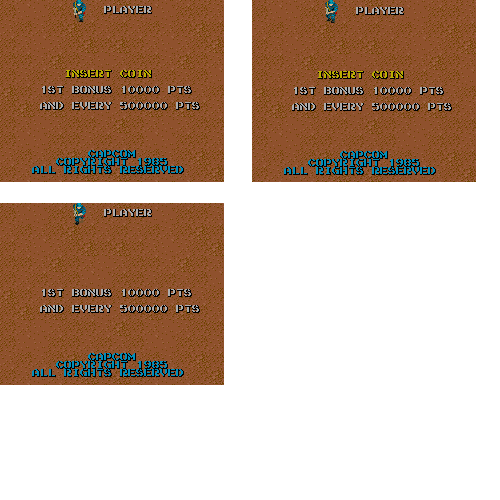
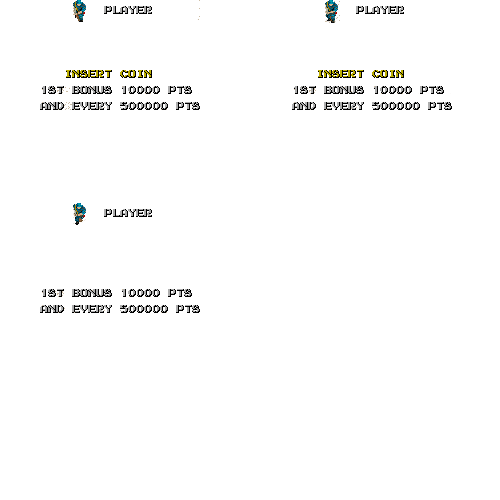
Welcome screen done less the score

diff --git a/ModuleSceneWelcome.cpp b/ModuleSceneWelcome.cpp
@@ -1,3 +1,4 @@
+
 #include "ModuleSceneWelcome.h"
 #include "Application.h"
 #include "ModuleTextures.h"
@@ -42,12 +43,15 @@ bool ModuleSceneWelcome::Start() {
 	background_graphics = App->textures->Load("Images/Mapa4.png");
 	title_graphics = App->textures->Load("Images/title.png");
 	screen_welcome = App->textures->Load("Images/screen1.png");
+	capcom = App->textures->Load("Images/capcom.png");
 
 	if (background_graphics == nullptr)
 		ret = false;
 	if (title_graphics == nullptr)
 		ret = false;
 	if (screen_welcome == nullptr)
+		ret = false;
+	if (capcom == nullptr)
 		ret = false;
 	return ret;
 }
@@ -62,13 +66,15 @@ update_status ModuleSceneWelcome::Update() {
 	bool ret = false;
 	AnimationFrame frame = welcome_anim.GetCurrentFrame();
 	ret = App->render->Blit(background_graphics, 0 + frame.pivot.x, 0 + frame.pivot.y, &frame.rect, 0.0f);
+
 	if (welcome_anim.getFrameIndex() == 0) 
 	{
-		App->render->Blit(screen_welcome, 0, 70, &screen_1.GetCurrentFrame().rect);
+		App->render->Blit(screen_welcome, -4, 70, &screen_1.GetCurrentFrame().rect);
 
 	}
 	if (welcome_anim.getFrameIndex() != 0)
-		App->render->Blit(title_graphics, 10, 56, nullptr, 0);
+		App->render->Blit(title_graphics, 8, 56, nullptr, 0);
+		App->render->Blit(capcom, 29, SCREEN_HEIGHT- 36, nullptr, 0);
 
 	return ret ? update_status::UPDATE_CONTINUE : update_status::UPDATE_ERROR;
 }

diff --git a/ModuleSceneWelcome.h b/ModuleSceneWelcome.h
@@ -14,6 +14,7 @@ private:
 	SDL_Texture* background_graphics;
 	SDL_Texture* title_graphics;
 	SDL_Texture* screen_welcome;
+	SDL_Texture* capcom;
 	Animation welcome_anim;
 	Animation screen_1;
 public:
